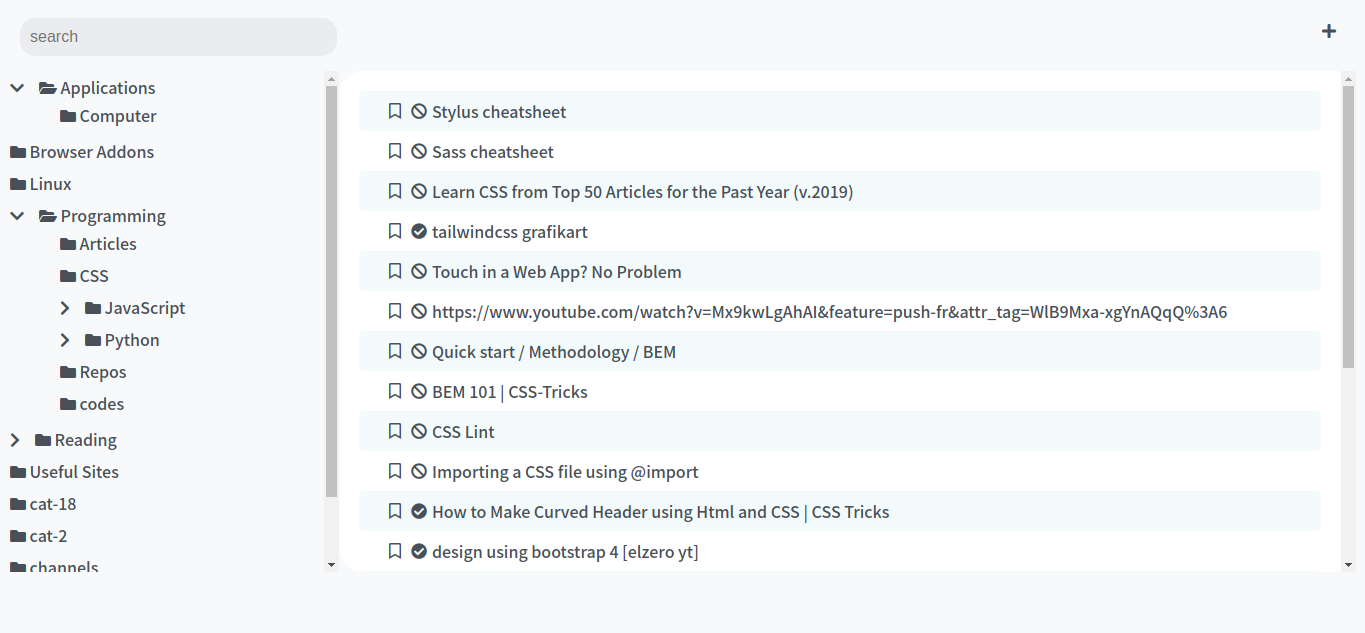
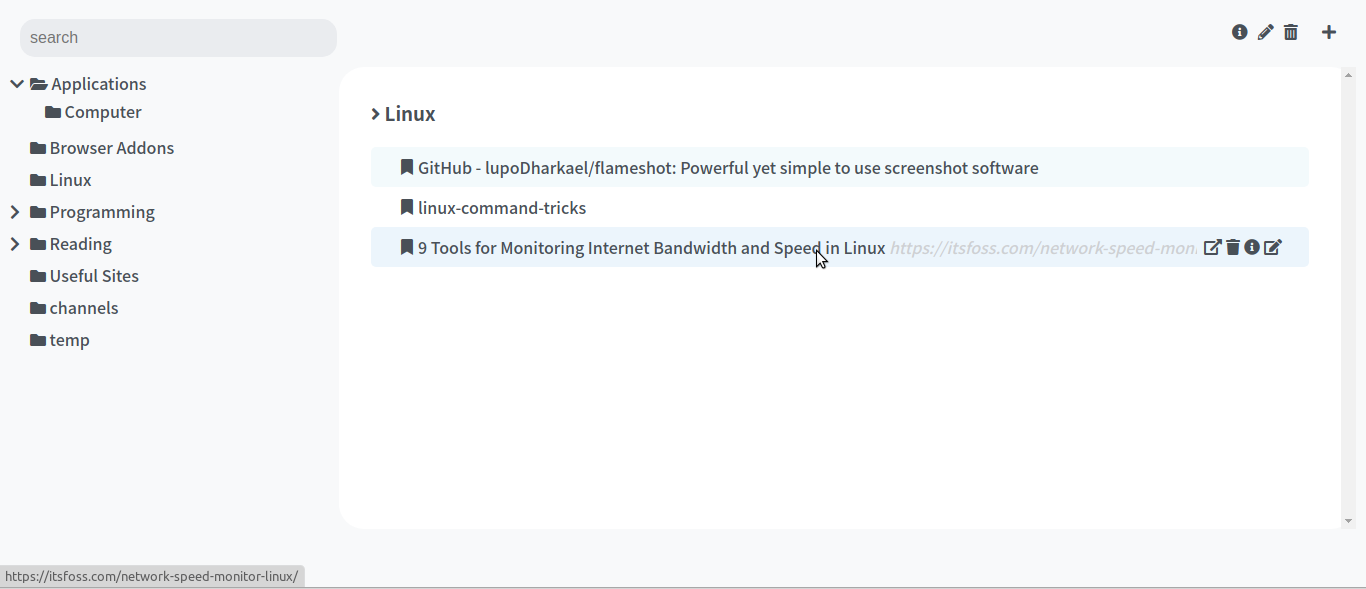
Edit README.md

diff --git a/README.md b/README.md
@@ -1,15 +1,14 @@
 # ProdUtils
 
-This project is a set of apps that help you to be more productive.
+A bookmark app built using VueJS and Django with DRF.
 
-### Bookmark App
-
+![Home](./screenshots/bookmarks-home.png)
 ![Bookmarks](./screenshots/bookmarks.png)
 
 
 ![New Bookmark Modal](./screenshots/new-bookmark.png)
 
-![Bookmark Info Modal](./screenshots/bookmark-info.png)
+![Bookmark Info Modal](./screenshots/new-category.png)
 
 It has a clear separation: use Vue, Yarn, and Webpack to handle all frontend logic and assets bundling,
 and use Django with Django REST framework to manage the Data Models, Web API, and serve static files.
